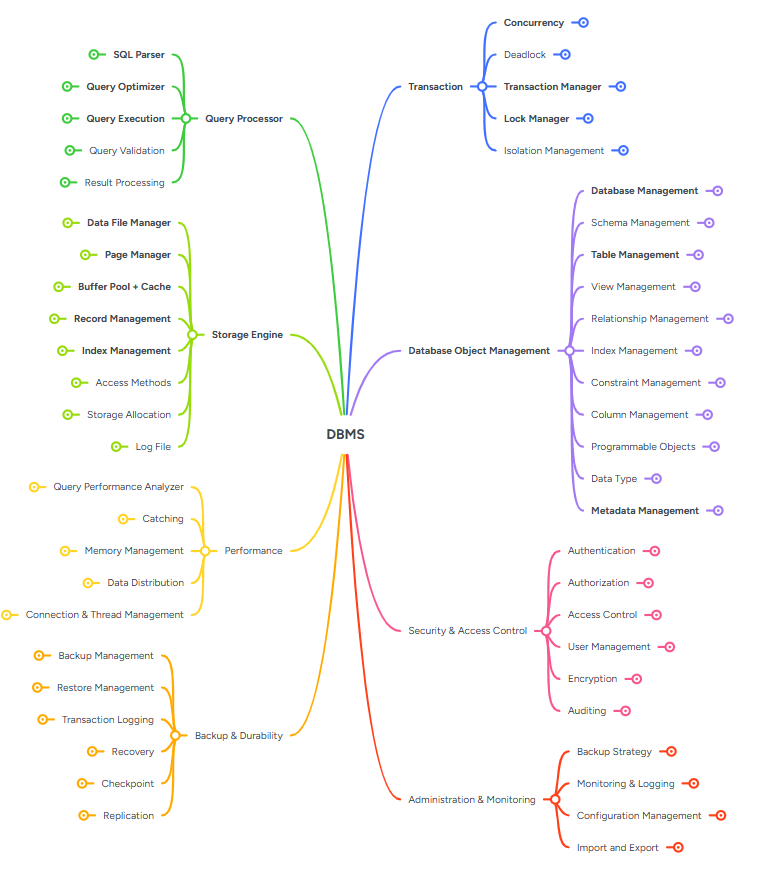
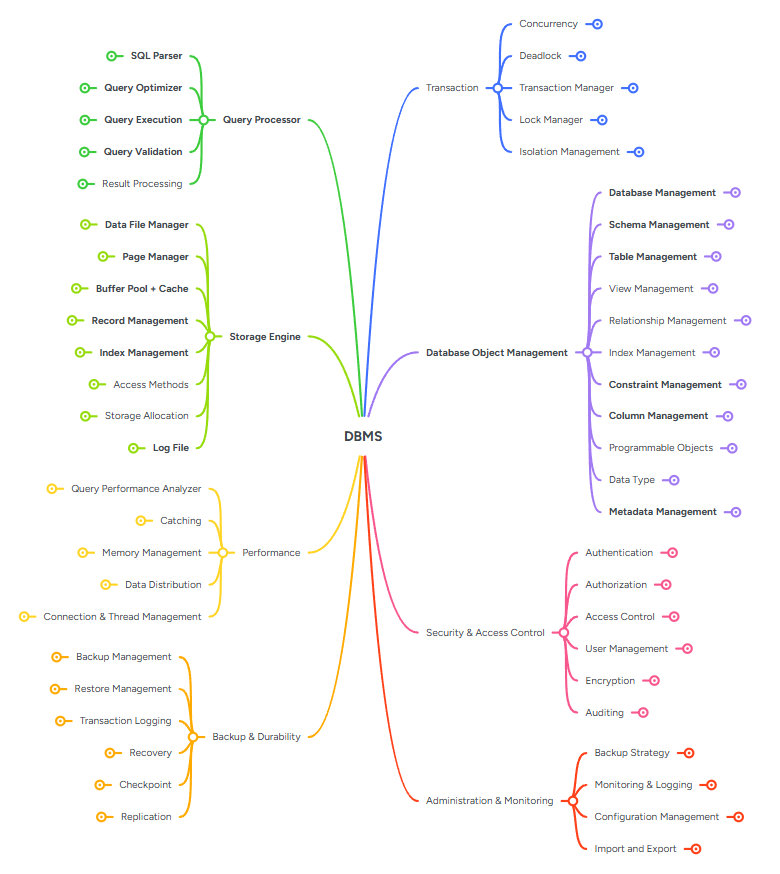
docs: list design pattern

diff --git a/docs/design-patterns/README.md b/docs/design-patterns/README.md
@@ -1,0 +1,188 @@
+# Design Patterns in DBMS
+
+This document summarizes the Design Patterns applied in various components of the DBMS.
+
+| Module | Feature / Class | Design Pattern | Why Use It |
+| :--- | :--- | :--- | :--- |
+| **Database Objects** | `Database` → `Schema` → `Table` | **Composite** | Database Objects have a tree structure (Hierarchy). Allows uniform operations on objects. |
+| | `TableFactory`, `IndexFactory`, `ConstraintFactory` | **Factory Method** | DDL (`CREATE TABLE`, `CREATE INDEX`) instantiates the correct object independent of constructors. |
+| | `Constraint`, `Index` | **Strategy** | Enables changing algorithms for `Validate()`, `Search()` (PK, FK, Unique, BTree, Hash...) without modifying the client. |
+| | `SchemaVisitor`, `MetadataVisitor` | **Visitor** | Used by Backup, Export, Statistics, and Dependency Scan to traverse the entire object tree. |
+| | `CreateTableCommand`, `DropTableCommand` | **Command** | Encapsulates each DDL as a command, making rollback and transactions easier. |
+| | `CatalogManager` | **Repository (Catalog)**| Centralizes metadata access so the Query Processor doesn't access objects directly. |
+| **Query Processing** | `AST` | **Interpreter** | Parses SQL into an AST and "interprets" it. |
+| | `LogicalPlanBuilder`, `PhysicalPlanBuilder` | **Builder** | Constructs the Execution Plan step-by-step from the AST. |
+| | `AST Visitor` | **Visitor** | Optimizer traverses the AST without modifying AST classes. |
+| | `JoinStrategy`, `ScanStrategy` | **Strategy** | Implements Nested Loop, Hash Join, Merge Join, Index Scan, etc. |
+| | `Parser` → `Validator` → `Optimizer` → `Executor` | **Pipeline (Chain)** | Follows the standard query processing flow of a DBMS. |
+| | `ResultCursor` | **Iterator** | Yields results row by row instead of loading the entire dataset into memory. |
+| **Storage Engine** | `StorageEngine` | **Facade** | Hides `BufferPool`, `FileManager`, `WAL`, and `Recovery` behind `ReadPage()` and `WritePage()` APIs. |
+| | `ReplacementPolicy` | **Strategy** | Allows easy switching of cache algorithms like LRU, Clock, MRU... |
+| | `Page` | **State** | Behavior changes based on page state: Dirty, Clean, Pinned, Free... |
+| | `Page` / `RecordData` | **Flyweight** | Reduces the allocation of large `Byte[]` objects, saving memory. |
+| | Read Pipeline | **Chain of Responsibility**| `BufferPool` → `Disk` → `Recovery` → `WAL` when reading a page. |
+| | `BufferPool`, `WALManager` | **Singleton** | Ensures only a single instance exists within a database instance. |
+| | `RecoveryManager` | **Template Method** | Recovery always follows Analysis → REDO → UNDO steps, but individual DBMS implementations can override them. |
+---
+
+## Visual Summary
+
+| Feature | Problem to Solve | Pattern | Idea |
+| :--- | :--- | :--- | :--- |
+| **Database Manager** | | | |
+| Open / Close Database | Initializing a database requires coordinating complex subsystems (Storage, Catalog, BufferPool). | **Facade** | `DatabaseManager` acts as a Facade, hiding the complexity and providing a simple API. |
+| DB Instance Control | Prevent creating multiple instances of the same database which could cause system conflicts. | **Singleton** | Ensures that each Database is managed by a single object. |
+| **Schema & Table Operations** | | | |
+| Create Table | Table has many complex components (Column, Constraint, Index...). | **Builder** | Construct the Table step by step instead of using a long constructor. |
+| Constraint Validation | Each type of Constraint has a different validation algorithm. | **Strategy** | Encapsulate each validation algorithm into its own Strategy. |
+| Index Creation | DBMS supports multiple different types of Indexes. | **Factory Method** | Let the Factory decide whether to instantiate `BTreeIndex`, `HashIndex`, or `BitmapIndex`. |
+| Object Hierarchy | Schema contains Table, Table contains Column, Constraint, Index forming a complex collection. | **Composite** | Structure objects in a tree hierarchy to allow uniform operations. |
+
+## Sequence Diagrams & Pattern Explanations
+
+### 1. Database Manager - Open / Close Database (Facade Pattern)
+
+**Why use it?** `DatabaseManager` acts as a Facade. Opening or closing a database involves complex coordination between the Catalog, Storage Engine, and Buffer Pool. Instead of forcing the client to initialize and manage these subsystems individually, the Facade provides a single `OpenDatabase` method.
+
+```mermaid
+sequenceDiagram
+    autonumber
+    actor Client
+    participant Facade as DatabaseManager
+    participant Storage as StorageEngine
+    participant Catalog as ICatalogManager
+    
+    Client->>Facade: OpenDatabase("AppDB")
+    activate Facade
+    Facade->>Storage: InitializeStorageEngine("AppDB")
+    Facade->>Catalog: LoadCatalog("AppDB")
+    Facade-->>Client: Database Opened Successfully
+    deactivate Facade
+```
+
+![alt text](image.png)
+
+### 2. Database Manager - DB Instance Control (Singleton Pattern)
+
+**Why use it?** We must ensure that only a single `DatabaseManager` (and internal managers like `BufferPool` or `WALManager`) instance coordinates operations across the entire DBMS process. Creating multiple instances would cause conflicts when accessing underlying files or managing memory buffers.
+
+```mermaid
+sequenceDiagram
+    autonumber
+    actor Client
+    participant DB as DatabaseManager (Singleton)
+    
+    Client->>DB: GetInstance()
+    activate DB
+    alt Instance is null
+        DB->>DB: Create new DatabaseManager()
+    end
+    DB-->>Client: Return Singleton Instance
+    deactivate DB
+    Client->>DB: OpenDatabase(...)
+```
+
+![alt text](image-10.png)
+
+### 3. Schema & Table Operations - Create Table (Builder Pattern)
+
+**Why use it?** A `Table` object is highly complex. It contains multiple `Column`s, `Constraint`s (Primary Key, Foreign Key), and `Index`es. A constructor with all these parameters would be unwieldy (Telescoping Constructor Anti-pattern). A `TableBuilder` allows step-by-step construction of the Table object.
+
+```mermaid
+sequenceDiagram
+    autonumber
+    actor Client
+    participant Builder as TableBuilder
+    participant Table as Table
+    
+    Client->>Builder: new TableBuilder("Users")
+    Client->>Builder: AddColumn("Id", INT)
+    Client->>Builder: AddColumn("Name", VARCHAR)
+    Client->>Builder: AddPrimaryKey("Id")
+    Client->>Builder: Build()
+    activate Builder
+    Builder->>Table: new Table("Users", columns, constraints)
+    Builder-->>Client: Return Table Object
+    deactivate Builder
+```
+
+![alt text](image-2.png)
+![alt text](image-3.png)
+
+### 4. Schema & Table Operations - Constraint Validation (Strategy Pattern)
+
+**Why use it?** Different constraints (Primary Key, Unique, Foreign Key, Check) require entirely different logic to validate a row. The Strategy pattern defines a common `Validate(Row)` interface in an abstract `Constraint` base class. This allows the `RecordManager` to validate rows without knowing the specific constraint details, making it easy to add new constraints later.
+
+```mermaid
+sequenceDiagram
+    autonumber
+    participant RecordMgr as RecordManager
+    participant Constr as Constraint (Strategy)
+    participant Concrete as PrimaryKey (ConcreteStrategy)
+    
+    RecordMgr->>Constr: Validate(row)
+    activate Constr
+    Constr->>Concrete: Execute Validation Logic
+    activate Concrete
+    Concrete->>Concrete: Check for duplicates/nulls
+    Concrete-->>Constr: Validation Result (true/false)
+    deactivate Concrete
+    Constr-->>RecordMgr: Return Result
+    deactivate Constr
+```
+
+![alt text](image-4.png)
+![alt text](image-5.png)
+
+### 5. Schema & Table Operations - Index Creation (Factory Method Pattern)
+
+**Why use it?** A DBMS can support multiple types of indexes (`BTreeIndex`, `HashIndex`, etc.). The exact type of index to create may depend on column types or user requests. A Factory Method encapsulates the instantiation logic, returning a common `Index` base class interface so the `Table` doesn't depend on concrete index classes.
+
+```mermaid
+sequenceDiagram
+    autonumber
+    actor Client
+    participant Factory as IndexFactory
+    participant BTree as BTreeIndex
+    participant Table as Table
+    
+    Client->>Factory: CreateIndex("BTree", columns)
+    activate Factory
+    Factory->>BTree: new BTreeIndex(columns)
+    Factory-->>Client: Return Index Object
+    deactivate Factory
+    Client->>Table: AddIndex(Index)
+```
+
+![alt text](image-6.png)
+![alt text](image-7.png)
+
+### 6. Schema & Table Operations - Object Hierarchy (Composite Pattern)
+
+**Why use it?** Database metadata forms a natural tree structure: `Database` -> `Schema` -> `Table` -> `Column`/`Constraint`. The Composite pattern lets clients treat individual objects (like a Table) and compositions of objects (like a Schema) uniformly. For example, dropping a Schema cascades down to drop all Tables and Columns it contains without the client managing the loops.
+
+```mermaid
+sequenceDiagram
+    autonumber
+    actor Client
+    participant DB as Database (Composite)
+    participant Sch as Schema (Composite)
+    participant Tbl as Table (Leaf)
+    
+    Client->>DB: DropDatabase("AppDB")
+    activate DB
+    DB->>Sch: DropSchema("dbo")
+    activate Sch
+    Sch->>Tbl: DropTable("Users")
+    activate Tbl
+    Tbl->>Tbl: Cleanup Columns & Indexes
+    Tbl-->>Sch: Success
+    deactivate Tbl
+    Sch-->>DB: Success
+    deactivate Sch
+    DB-->>Client: Database Dropped
+    deactivate DB
+```
+
+![alt text](image-8.png)
+![alt text](image-9.png)